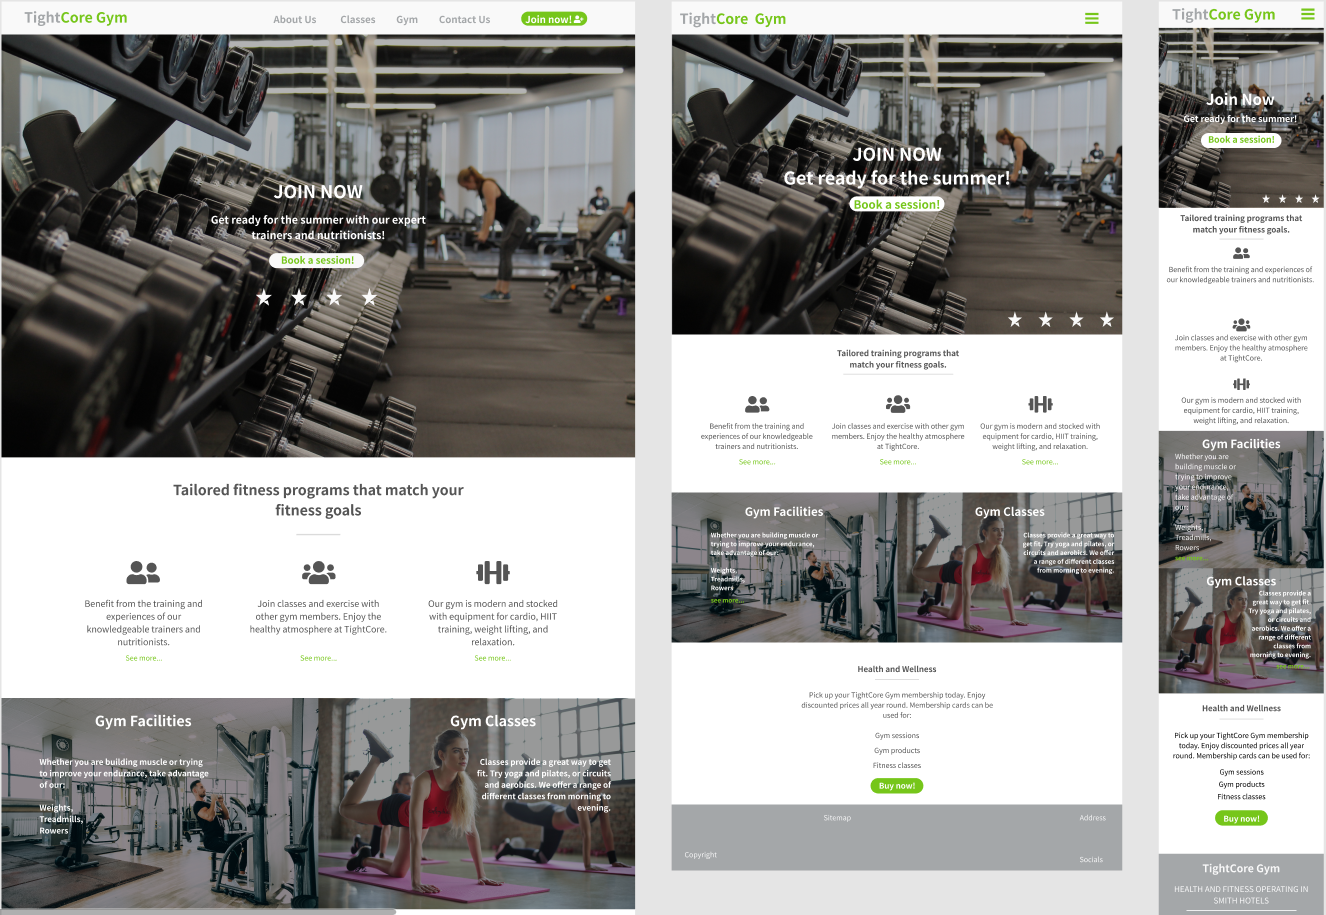
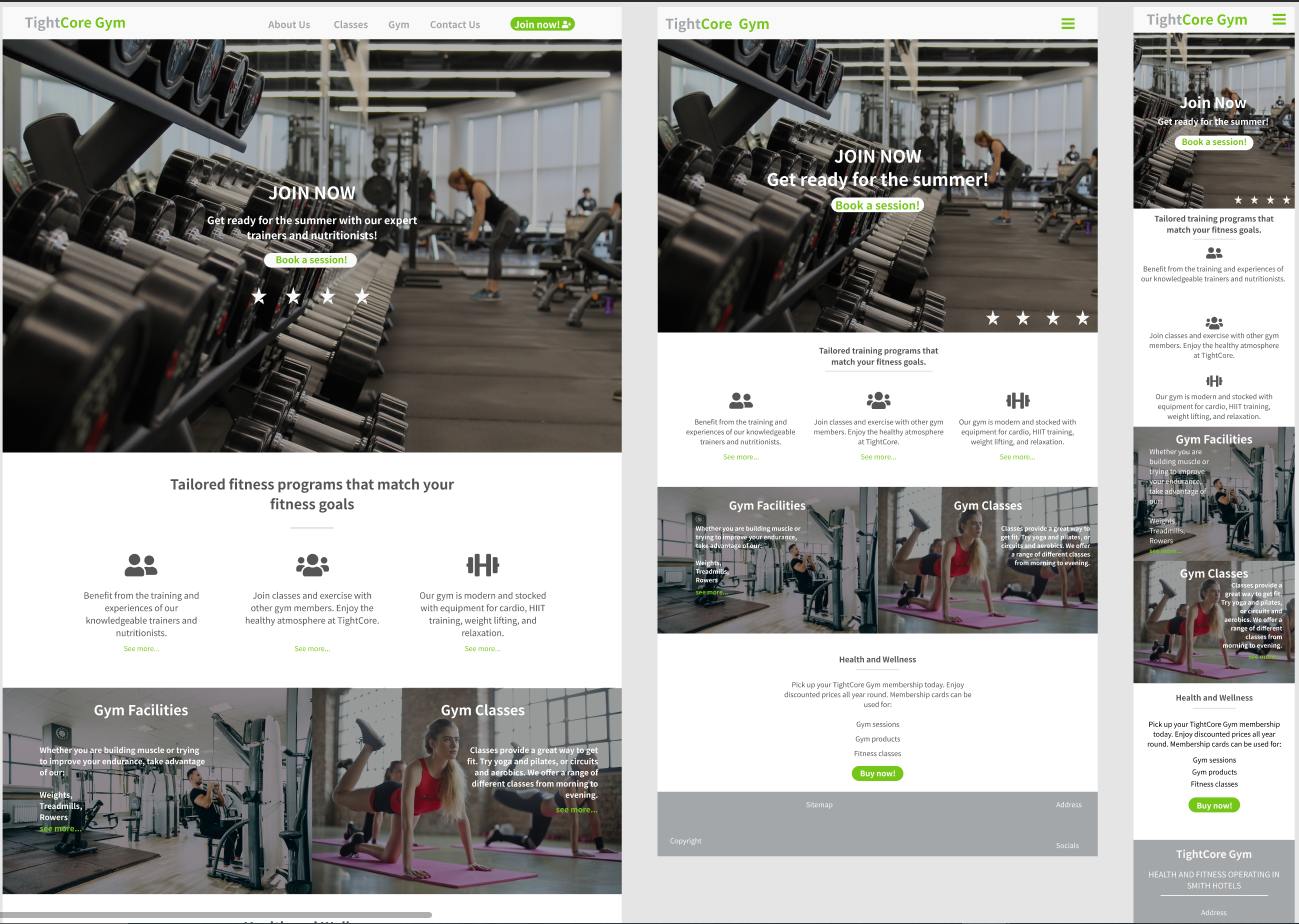
slight change to index wireframes: added 'see more' tags

diff --git a/README.md b/README.md
@@ -123,6 +123,6 @@ The developer created wireframe mockups in a Figma Workspace. The intention was 
 Home page:
 ![index-wireframe](assets/readme-files/index-tightcore-gym.png)
 
-About Us
+About us page:
 ![about-wireframe](assets/readme-files/about-tightcore-gym.png)
 
